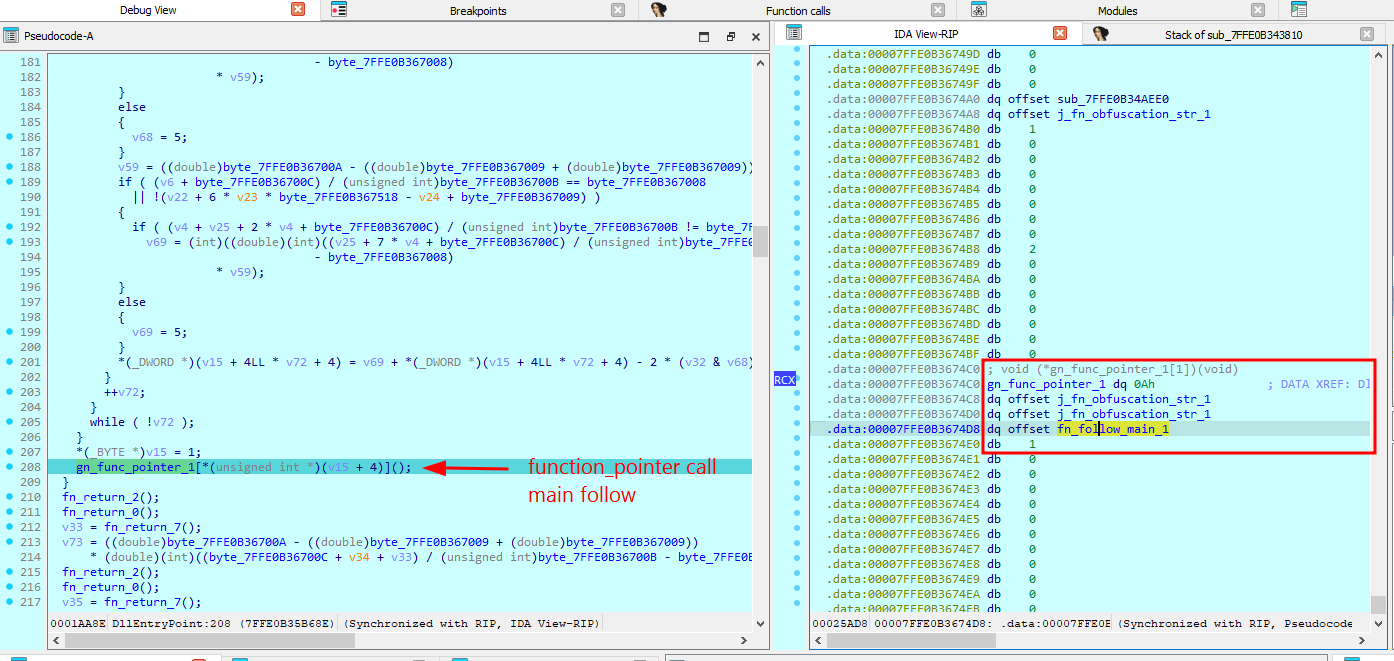
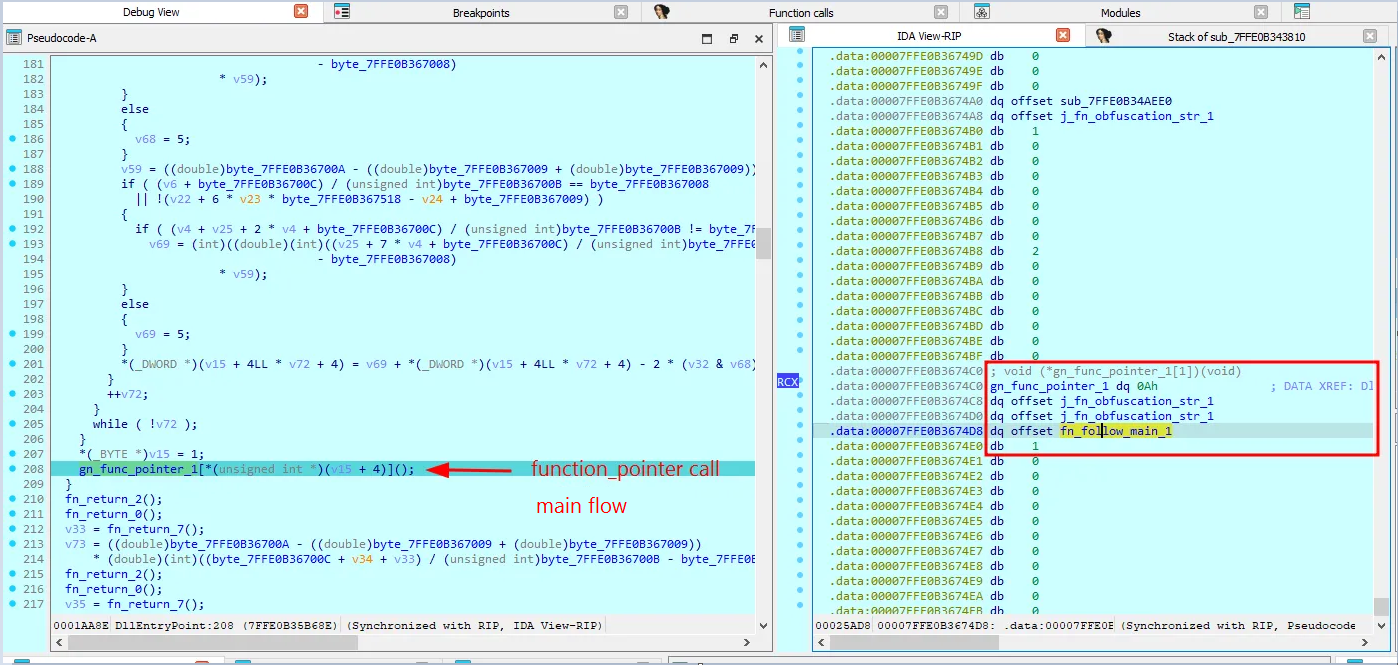
Automated commit: Tue 10/28/2025 17:34:00.22

Changed region(s): [[0.0, 0.0, 1.0, 1.0], [0.0925, 0.2421, 0.5552, 0.3026]]

diff --git a/src/content/posts/malware-charon-ransomware/index.md b/src/content/posts/malware-charon-ransomware/index.md
@@ -55,7 +55,7 @@ lang: ""
 
 ![alt text](./images/image-2.png)
 
-- File mã độc `"msedge.dll"` bị obfuscated nặng, trong hàm `"DllEntryPoint(...)"` thực hiện call function thông qua function_pointer - ở đây bao gồm "function_pointer_1[0]", "function_pointer_1[1]" và đặc biệt "function_pointer_1[2]" là follow thực thi tiếp theo của malware ( Ở đây đặt tên là `"fn_main_follow()"` để theo dõi ).
+- File mã độc `"msedge.dll"` bị obfuscated nặng, trong hàm `"DllEntryPoint(...)"` thực hiện call function thông qua function_pointer - ở đây bao gồm "function_pointer_1[0]", "function_pointer_1[1]" và đặc biệt "function_pointer_1[2]" là follow thực thi tiếp theo của malware ( Ở đây đặt tên là `"fn_main_flow()"` để theo dõi ).
 
 ![alt text](./images/image-3.png)
 
@@ -63,7 +63,7 @@ lang: ""
 
 ![alt text](./images/image-4.png)
 
-- Tiếp theo hàm `"fn_main_follow()"` cũng sẽ gọi "function_pointer" thực hiện các hành vi sau:
+- Tiếp theo hàm `"fn_main_flow()"` cũng sẽ gọi "function_pointer" thực hiện các hành vi sau:
 
   - Gọi hàm thực hiện kiểm tra tồn tại của file `"DumpStack.log"`, đọc và giải mã nội dung file thành payload_shellcode_layer_1, trong hàm này cũng gọi hàm con thực hiện kiểm tra "Anti-Debug".
 
@@ -109,7 +109,7 @@ lang: ""
 
 ![alt text](./images/image-9.png)
 
-- Sau khi xử lý file `"DumpStack.log"`, hàm `"fn_main_follow()"` thực hiện quá trình split delimiter (";": 0x3B) data sau giải mã để lấy thông tin tên các hàm APIs cần dùng và gọi các "function_pointer" khác để resolve chúng ( CreateProcessA, VirtualAllocEx, ... ).
+- Sau khi xử lý file `"DumpStack.log"`, hàm `"fn_main_flow()"` thực hiện quá trình split delimiter (";": 0x3B) data sau giải mã để lấy thông tin tên các hàm APIs cần dùng và gọi các "function_pointer" khác để resolve chúng ( CreateProcessA, VirtualAllocEx, ... ).
 
 ![alt text](./images/image-10.png)
 
